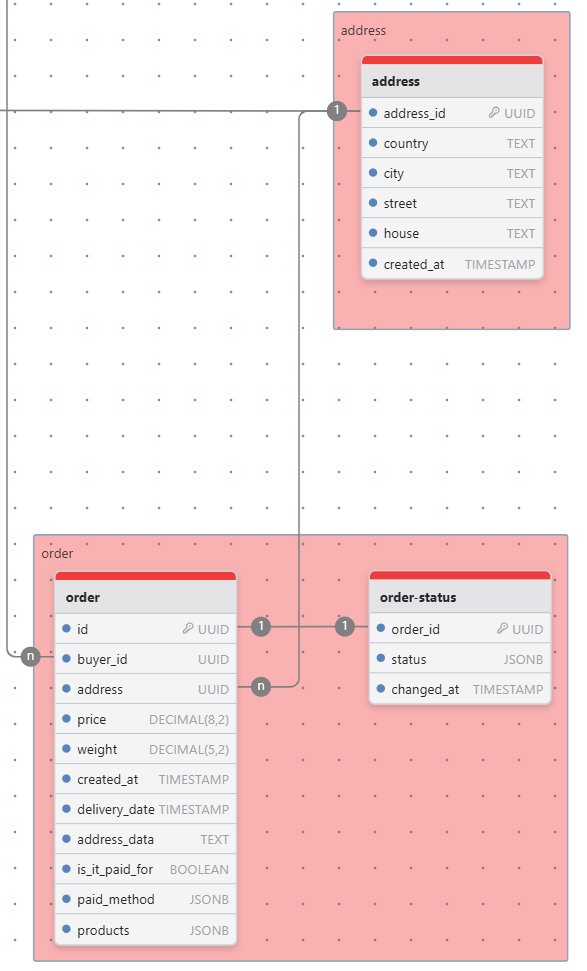
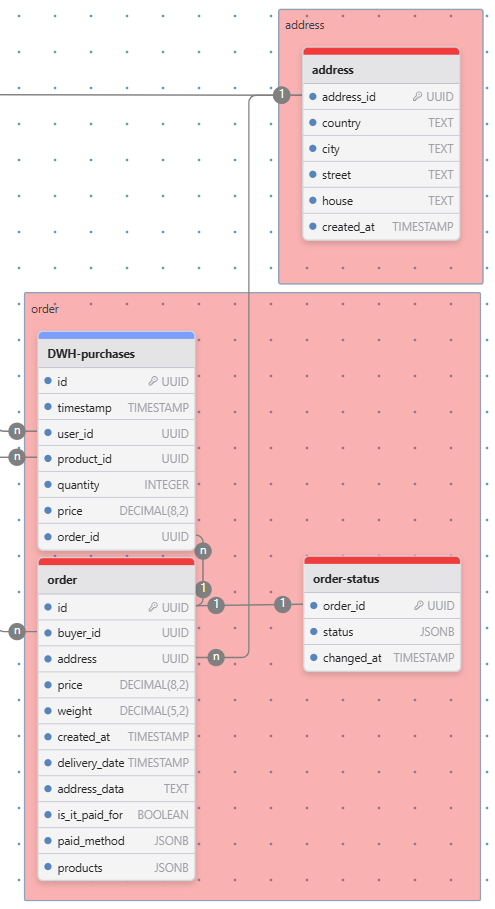
[fix] добавлены несколько DWH и feature сторис для пользователя и продуктов

diff --git a/README.md b/README.md
@@ -803,7 +803,7 @@ Anycast позволяет оптимизировать маршрутизаци
 
 *Отзыв:*
 
-![img_2.png](img%2F5%2Fimg.png)
+![img.png](img%2F5%2Fimg.png)
 
 *Продавец:*
 
@@ -852,6 +852,7 @@ URL: [https://www.drawdb.app/editor?shareId=b53cf5f4253d7b82c51b3d435ac52a20](ht
 | `Buyer-passport` | Паспортные данные покупателей для идентификации.                                      | `buyer_id` (PK)                                                                                        | Нет                                                                                                           | PostgreSQL   | По `buyer_id`    | Репликация + WAL + pg_basebackup  | SQLAlchemy, Hibernate                              |
 | `Buyer-contacts` | Дополнительные контакты покупателей для поиска и рекламы.                             | `buyer_id` (PK), `phone`                                                                               | Нет                                                                                                           | PostgreSQL   | По `buyer_id`    | Репликация + WAL + pg_basebackup  | SQLAlchemy, Hibernate                              |
 | `cart`           | Корзина покупателя: товары, адрес доставки.                                           | `buyer_id` (PK)                                                                                        | `products` в JSONB для хранения списка товаров без JOIN.                                                      | PostgreSQL   | По `buyer_id`    | Репликация + WAL + pg_basebackup  | SQLAlchemy, Hibernate, Redis (кэш)                 |
+| `user-features`  | Возможности пользователей для рекомендаций.                                           | `user_id` (PK), `feature_name`                                                                         | Да (key-value структура)                                                                                      | PostgreSQL   | По `user_id`     | Репликация + WAL + pg_basebackup  | SQLAlchemy, Hibernate                              |
 
 **Объяснение:**
 - **Объединение:** отдельная база данных для пользовательских данных, так как они часто запрашиваются вместе и требуют высокой скорости доступа и транзакционной целостности.
@@ -864,14 +865,15 @@ URL: [https://www.drawdb.app/editor?shareId=b53cf5f4253d7b82c51b3d435ac52a20](ht
 ### 2 Продукты и связанные данные
 
 #### БД с основными данными (PostgreSQL)
-| **Таблица**                | **Описание**                                                 | **Индексы**                                                 | **Денормализация**                                                             | **СУБД**       | **Шардирование** | **Резервирование**                | **Клиентские библиотеки / Интеграции**      |
-|----------------------------|--------------------------------------------------------------|-------------------------------------------------------------|--------------------------------------------------------------------------------|----------------|------------------|-----------------------------------|---------------------------------------------|
-| `product`                  | Основные данные о продуктах: название, цена, характеристики. | `id` (PK), `seller_id`, `title`, `created_at`, `changed_at` | `characteristics`, `breadcrumbs`, `img` в JSONB для быстрого доступа без JOIN. | PostgreSQL     | По `id`          | Репликация + WAL + pg_basebackup  | SQLAlchemy, Hibernate                       |
-| `product-filter`           | Данные для фильтрации продуктов: цена, вес, категории.       | `product_id` (PK)                                           | Дублирует данные из `product` и `product-search` для ускорения фильтрации.     | PostgreSQL     | По `product_id`  | Репликация + WAL + pg_basebackup  | SQLAlchemy, Hibernate                       |
-| `product-reviews`          | Количество отзывов по продуктам.                             | `product_id` (PK)                                           | Нет                                                                            | PostgreSQL     | По `product_id`  | Репликация + WAL + pg_basebackup  | SQLAlchemy, Hibernate                       |
-| `rating-product`           | Рейтинг продуктов: количество оценок и их сумма.             | `product_id` (PK)                                           | Нет                                                                            | PostgreSQL     | По `product_id`  | Репликация + WAL + pg_basebackup  | SQLAlchemy, Hibernate                       |
-| `product-categories`       | Категории продуктов и подкатегории.                          | `id` (PK), `title`                                          | `subcategories` в JSONB для хранения вложенных данных.                         | PostgreSQL     | Нет              | Репликация + WAL + pg_basebackup  | SQLAlchemy, Hibernate                       |
-| `seller-rating`            | Рейтинг продавцов: сумма и количество оценок.                | `seller_id` (PK)                                            | Нет                                                                            | PostgreSQL     | По `seller_id`   | Репликация + WAL + pg_basebackup  | SQLAlchemy, Hibernate                       |
+| **Таблица**          | **Описание**                                                 | **Индексы**                                                 | **Денормализация**                                                             | **СУБД**     | **Шардирование**   | **Резервирование**                 | **Клиентские библиотеки / Интеграции** |
+|----------------------|--------------------------------------------------------------|-------------------------------------------------------------|--------------------------------------------------------------------------------|--------------|--------------------|------------------------------------|----------------------------------------|
+| `product`            | Основные данные о продуктах: название, цена, характеристики. | `id` (PK), `seller_id`, `title`, `created_at`, `changed_at` | `characteristics`, `breadcrumbs`, `img` в JSONB для быстрого доступа без JOIN. | PostgreSQL   | По `id`            | Репликация + WAL + pg_basebackup   | SQLAlchemy, Hibernate                  |
+| `product-filter`     | Данные для фильтрации продуктов: цена, вес, категории.       | `product_id` (PK)                                           | Дублирует данные из `product` и `product-search` для ускорения фильтрации.     | PostgreSQL   | По `product_id`    | Репликация + WAL + pg_basebackup   | SQLAlchemy, Hibernate                  |
+| `product-reviews`    | Количество отзывов по продуктам.                             | `product_id` (PK)                                           | Нет                                                                            | PostgreSQL   | По `product_id`    | Репликация + WAL + pg_basebackup   | SQLAlchemy, Hibernate                  |
+| `rating-product`     | Рейтинг продуктов: количество оценок и их сумма.             | `product_id` (PK)                                           | Нет                                                                            | PostgreSQL   | По `product_id`    | Репликация + WAL + pg_basebackup   | SQLAlchemy, Hibernate                  |
+| `product-categories` | Категории продуктов и подкатегории.                          | `id` (PK), `title`                                          | `subcategories` в JSONB для хранения вложенных данных.                         | PostgreSQL   | Нет                | Репликация + WAL + pg_basebackup   | SQLAlchemy, Hibernate                  |
+| `seller-rating`      | Рейтинг продавцов: сумма и количество оценок.                | `seller_id` (PK)                                            | Нет                                                                            | PostgreSQL   | По `seller_id`     | Репликация + WAL + pg_basebackup   | SQLAlchemy, Hibernate                  |
+| `item_features`      | Характеристики продуктов для рекомендаций.                   | `product_id` (PK), `feature_name`                           | Да (key-value структура)                                                       | PostgreSQL   | По `product_id`    | Репликация + WAL + pg_basebackup   | SQLAlchemy, Hibernate                  |
 
 #### БД для поиска (Elasticsearch)
 | **Таблица**                | **Описание**                                                 | **Индексы**                                                 | **Денормализация**                                                             | **СУБД**       | **Шардирование**  | **Резервирование**           | **Клиентские библиотеки / Интеграции**      |
@@ -932,23 +934,32 @@ URL: [https://www.drawdb.app/editor?shareId=b53cf5f4253d7b82c51b3d435ac52a20](ht
 - **Резервирование:** репликация для отказоустойчивости.
 
 ### 6. Отдельная бд для DWH в ClickHouse
-| **Таблица**                | **Описание**                                                            | **Индексы**        | **Денормализация**                  | **СУБД**    | **Шардирование** | **Резервирование** | **Клиентские библиотеки / Интеграции** |
-|----------------------------|-------------------------------------------------------------------------|--------------------|-------------------------------------|-------------|------------------|--------------------|----------------------------------------|
-| **`DWH-buyer`**            | Аналитические данные о покупателях: прибыль, покупки, просмотры.        | `buyer_id` (PK)    | Да (JSONB для покупок и просмотров) | ClickHouse  | По `buyer_id`    | Репликация         | clickhouse-driver, JDBC                |
-| **`DWH-product`**          | Аналитические данные о продуктах: посещения, покупки, отзывы, рейтинги. | `product_id` (PK)  | Нет                                 | ClickHouse  | По `product_id`  | Репликация         | clickhouse-driver, JDBC                |
+| **Таблица**               | **Описание**                                                            | **Индексы**       | **Денормализация**                  | **СУБД**    | **Шардирование** | **Резервирование** | **Клиентские библиотеки / Интеграции** |
+|---------------------------|-------------------------------------------------------------------------|-------------------|-------------------------------------|-------------|------------------|--------------------|----------------------------------------|
+| **`DWH-buyer`**           | Аналитические данные о покупателях: прибыль, покупки, просмотры.        | `buyer_id` (PK)   | Да (JSONB для покупок и просмотров) | ClickHouse  | По `buyer_id`    | Репликация         | clickhouse-driver, JDBC                |
+| **`DWH-product`**         | Аналитические данные о продуктах: посещения, покупки, отзывы, рейтинги. | `product_id` (PK) | Нет                                 | ClickHouse  | По `product_id`  | Репликация         | clickhouse-driver, JDBC                |
+| **`DWH-product-views`**   | Необработанные данные о просмотрах продуктов пользователями.            | `id` (PK)         | Нет                                 | ClickHouse  | По `product_id`  | Репликация         | clickhouse-driver, JDBC                |
+| **`DWH-purchases`**       | Необработанные данные о покупках с указанием количества и цены.         | `id` (PK)         | Нет                                 | ClickHouse  | По `product_id`  | Репликация         | clickhouse-driver, JDBC                |
+| **`DWH-reviews-raw`**     | Необработанные данные отзывов с оценками и комментариями.               | `id` (PK)         | Нет                                 | ClickHouse  | По `product_id`  | Репликация         | clickhouse-driver, JDBC                |
 
 #### Объяснение для таблиц `DWH-buyer` и `DWH-product`:
-- **Объединение**: таблицы предназначены для аналитики и интегрируются в Data Warehouse (DWH). `DWH-buyer` связана с таблицей `Buyer` через `buyer_id`, а `DWH-product` — с таблицей `product` через `product_id`. Они оптимизированы для быстрой обработки больших объемов данных.
+- **Объединение**: таблицы предназначены для аналитики и интегрируются в Data Warehouse (DWH). `DWH-buyer` связана с таблицей `Buyer` через `buyer_id`, а `DWH-product` — с таблицей `product` через `product_id`. Они оптимизированы для быстрой обработки больших объемов данных, так же добавлены DWH на события покупки, просмотра и оставления отзыва.
 - **Индексы**:
    - Для `DWH-buyer`: первичный ключ `buyer_id` обеспечивает уникальность и быстрый доступ.
    - Для `DWH-product`: первичный ключ `product_id` обеспечивает уникальность и быстрый доступ.
+   - Для `DWH-product-views`: первичный ключ `id` обеспечивает уникальность и быстрый доступ.
+   - Для `DWH-purchases`: первичный ключ `id` обеспечивает уникальность и быстрый доступ.
+   - Для `DWH-reviews-raw`: первичный ключ `id` обеспечивает уникальность и быстрый доступ.
 - **Денормализация**:
    - В `DWH-buyer` поля `purchased_products` и `views_product` используют JSONB для хранения списков купленных и просмотренных продуктов, что ускоряет аналитические запросы без дополнительных соединений.
-   - В `DWH-product` денормализация не применяется, так как данные нормализованы для точности аналитики.
+   - В `DWH-product`, `DWH-product-views`, `DWH-purchases` и `DWH-reviews-raw` денормализация не применяется, так как данные нормализованы для точности аналитики.
 - **СУБД**: используется ClickHouse, который оптимизирован для аналитических запросов и обработки больших объемов данных.
 - **Шардирование**:
    - Для `DWH-buyer`: по `buyer_id` для равномерного распределения данных о покупателях.
    - Для `DWH-product`: по `product_id` для распределения данных о продуктах.
+   - Для `DWH-product-views`: по `product_id` для распределения данных о продуктах.
+   - Для `DWH-purchases`: по `product_id` для распределения данных о продуктах.
+   - Для `DWH-reviews-raw`: по `product_id` для распределения данных о продуктах.
 - **Резервирование**: репликация в ClickHouse обеспечивает отказоустойчивость и доступность данных.
 - **Клиентские библиотеки**: интеграция осуществляется через `clickhouse-driver` для Python или JDBC для Java, что соответствует требованиям аналитических приложений.
 
